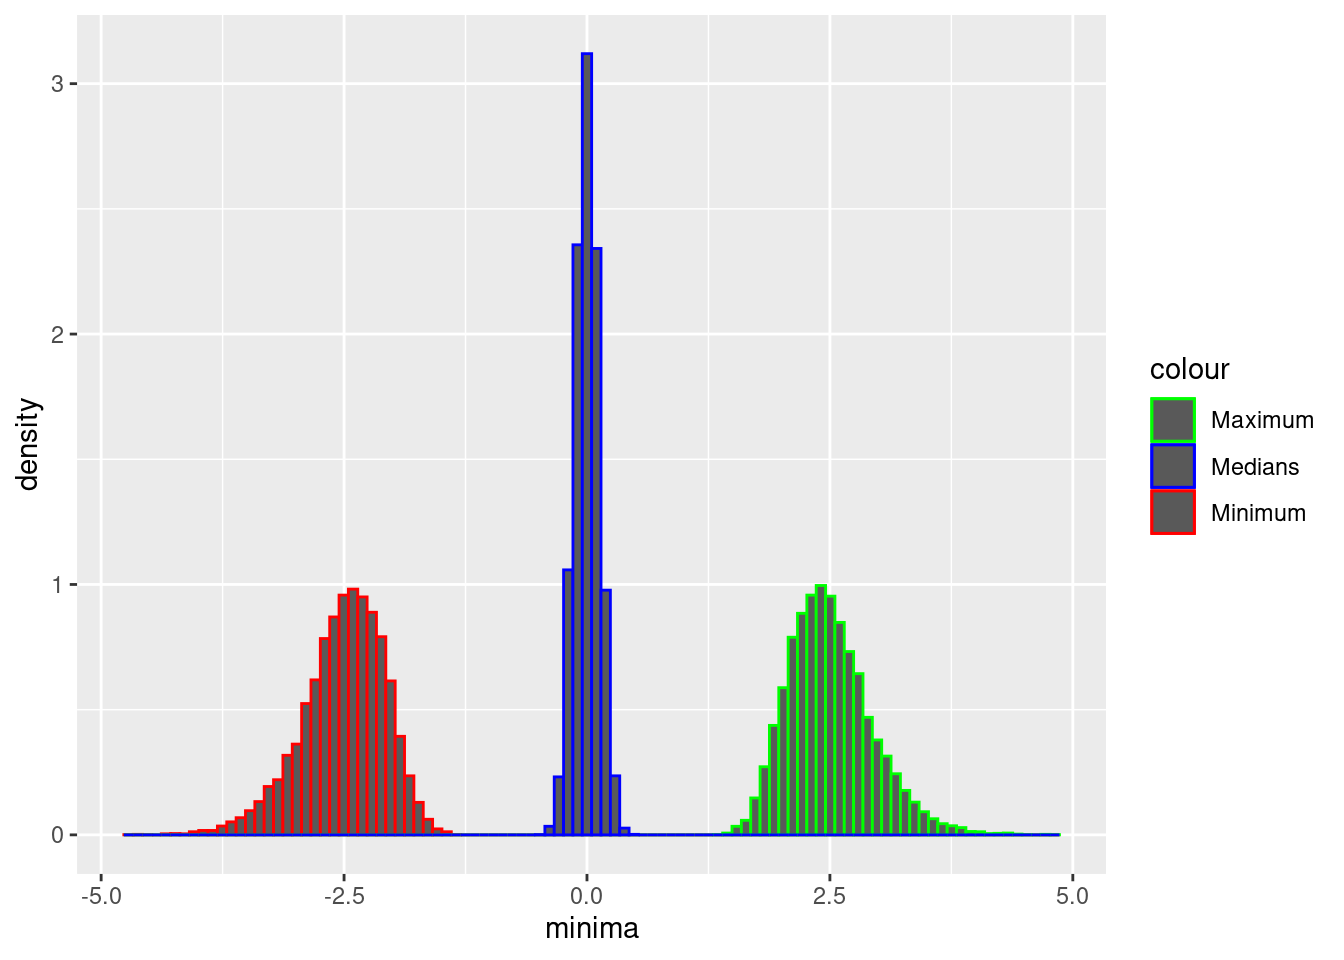
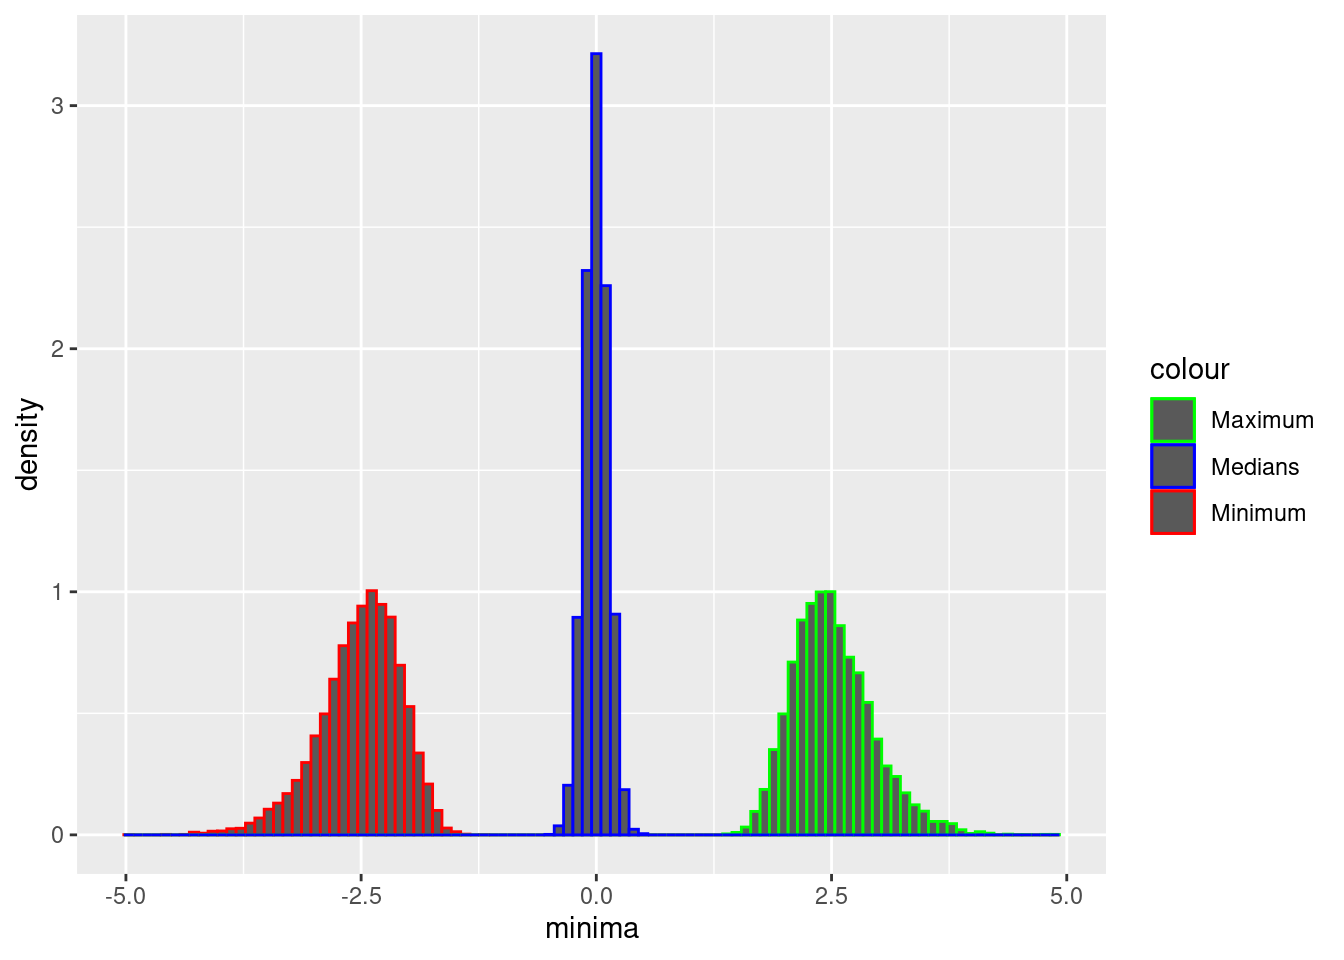
updating published version

diff --git a/docs/chapters/06-LinearAlgebra/linear_algebra_r.html b/docs/chapters/06-LinearAlgebra/linear_algebra_r.html
@@ -327,13 +327,13 @@ code span.wa { color: #60a0b0; font-weight: bold; font-style: italic; } /* Warni
 <span id="cb19-2"><a href="#cb19-2" aria-hidden="true" tabindex="-1"></a>y <span class="ot">&lt;-</span> <span class="fu">rnorm</span>(<span class="dv">4</span>)</span>
 <span id="cb19-3"><a href="#cb19-3" aria-hidden="true" tabindex="-1"></a><span class="fu">print</span>(x <span class="sc">+</span> y)</span></code><button title="Copy to Clipboard" class="code-copy-button"><i class="bi"></i></button></pre></div>
 <div class="cell-output cell-output-stdout">
-<pre><code>[1] -0.1574429  0.5853545  1.5430566  1.8220072</code></pre>
+<pre><code>[1]  0.2010285 -1.1237127 -1.1015789 -2.3177915</code></pre>
 </div>
 <div class="sourceCode cell-code" id="cb21"><pre class="sourceCode r code-with-copy"><code class="sourceCode r"><span id="cb21-1"><a href="#cb21-1" aria-hidden="true" tabindex="-1"></a><span class="co"># note that in R this makes sense</span></span>
 <span id="cb21-2"><a href="#cb21-2" aria-hidden="true" tabindex="-1"></a>u <span class="ot">&lt;-</span> <span class="fu">rnorm</span>(<span class="dv">2</span>)</span>
 <span id="cb21-3"><a href="#cb21-3" aria-hidden="true" tabindex="-1"></a><span class="fu">print</span>(x <span class="sc">+</span> u)</span></code><button title="Copy to Clipboard" class="code-copy-button"><i class="bi"></i></button></pre></div>
 <div class="cell-output cell-output-stdout">
-<pre><code>[1] -0.1725440 -1.6090980  0.9710686  1.3297334</code></pre>
+<pre><code>[1] -0.1064962 -1.2286674 -1.3623923 -2.8045689</code></pre>
 </div>
 </div>
 </section>
@@ -344,39 +344,39 @@ code span.wa { color: #60a0b0; font-weight: bold; font-style: italic; } /* Warni
 <span id="cb23-2"><a href="#cb23-2" aria-hidden="true" tabindex="-1"></a>v <span class="ot">=</span> <span class="fu">matrix</span>(<span class="fu">rnorm</span>(<span class="dv">20</span>), <span class="at">ncol =</span> <span class="dv">4</span>)</span>
 <span id="cb23-3"><a href="#cb23-3" aria-hidden="true" tabindex="-1"></a><span class="fu">print</span>(u <span class="sc">+</span> v)</span></code><button title="Copy to Clipboard" class="code-copy-button"><i class="bi"></i></button></pre></div>
 <div class="cell-output cell-output-stdout">
-<pre><code>            [,1]        [,2]       [,3]       [,4]
-[1,] 0.005901482  0.84508211 -1.4101435 -2.4777625
-[2,] 0.965643263  0.27345317  0.8652039 -0.7376397
-[3,] 1.131368788  1.55534278  0.7634983  0.7579660
-[4,] 2.101873832 -0.16303178 -1.3852967  0.9330677
-[5,] 1.000386045 -0.08485532 -0.5855597  0.7864797</code></pre>
+<pre><code>            [,1]       [,2]        [,3]       [,4]
+[1,] -0.08781738  2.6819573 -2.63831707  3.3471222
+[2,] -1.13599136  0.3329791 -1.24716448  2.9239088
+[3,]  0.93240611 -2.3386088 -0.80372049  1.2132588
+[4,]  0.95365295  2.2073135  0.30373833 -0.2885490
+[5,]  1.54915123 -0.2143616  0.06027279  0.6395133</code></pre>
 </div>
 <div class="sourceCode cell-code" id="cb25"><pre class="sourceCode r code-with-copy"><code class="sourceCode r"><span id="cb25-1"><a href="#cb25-1" aria-hidden="true" tabindex="-1"></a><span class="fu">print</span>(u)</span></code><button title="Copy to Clipboard" class="code-copy-button"><i class="bi"></i></button></pre></div>
 <div class="cell-output cell-output-stdout">
-<pre><code>           [,1]       [,2]       [,3]         [,4]
-[1,] -0.1710476  1.8939720 -0.3360687 -1.945614235
-[2,]  0.2962955  0.2241434 -0.6711872 -1.062910113
-[3,]  0.6343045  0.6224680  1.3438681  0.001298094
-[4,]  0.8958881  0.7648187  0.3601680  0.175845887
-[5,]  0.5290828 -0.4192935 -1.5211755  0.006996537</code></pre>
+<pre><code>           [,1]       [,2]        [,3]       [,4]
+[1,] -0.9193640  2.4385226 -1.85901636 -0.4301372
+[2,] -0.8306836 -0.7379083 -2.07993606  0.1207315
+[3,]  0.5684176 -0.2243259 -0.99898721 -0.0421543
+[4,]  1.3154388  1.0222996  0.04858308 -0.5514530
+[5,]  0.4438915 -0.7708496 -0.06492562  0.1556753</code></pre>
 </div>
 <div class="sourceCode cell-code" id="cb27"><pre class="sourceCode r code-with-copy"><code class="sourceCode r"><span id="cb27-1"><a href="#cb27-1" aria-hidden="true" tabindex="-1"></a><span class="fu">print</span>(<span class="dv">1</span> <span class="sc">/</span> u)</span></code><button title="Copy to Clipboard" class="code-copy-button"><i class="bi"></i></button></pre></div>
 <div class="cell-output cell-output-stdout">
-<pre><code>          [,1]       [,2]       [,3]        [,4]
-[1,] -5.846326  0.5279909 -2.9755821  -0.5139765
-[2,]  3.375010  4.4614299 -1.4898972  -0.9408133
-[3,]  1.576530  1.6065083  0.7441206 770.3602603
-[4,]  1.116211  1.3074994  2.7764823   5.6867978
-[5,]  1.890063 -2.3849643 -0.6573864 142.9278575</code></pre>
+<pre><code>           [,1]       [,2]        [,3]       [,4]
+[1,] -1.0877085  0.4100844  -0.5379189  -2.324840
+[2,] -1.2038278 -1.3551819  -0.4807840   8.282844
+[3,]  1.7592699 -4.4578003  -1.0010138 -23.722373
+[4,]  0.7602026  0.9781868  20.5832958  -1.813391
+[5,]  2.2528028 -1.2972699 -15.4022404   6.423626</code></pre>
 </div>
 <div class="sourceCode cell-code" id="cb29"><pre class="sourceCode r code-with-copy"><code class="sourceCode r"><span id="cb29-1"><a href="#cb29-1" aria-hidden="true" tabindex="-1"></a><span class="fu">print</span>(<span class="fu">log</span>(<span class="fu">abs</span>(u)))</span></code><button title="Copy to Clipboard" class="code-copy-button"><i class="bi"></i></button></pre></div>
 <div class="cell-output cell-output-stdout">
-<pre><code>           [,1]       [,2]       [,3]        [,4]
-[1,] -1.7658134  0.6386762 -1.0904397  0.66557773
-[2,] -1.2163982 -1.4954693 -0.3987071  0.06101054
-[3,] -0.4552261 -0.4740631  0.2955521 -6.64685828
-[4,] -0.1099397 -0.2681164 -1.0211848 -1.73814731
-[5,] -0.6366103 -0.8691842  0.4194834 -4.96234001</code></pre>
+<pre><code>            [,1]        [,2]         [,3]       [,4]
+[1,] -0.08407321  0.89139236  0.620047508 -0.8436511
+[2,] -0.18550635 -0.30393566  0.732337154 -2.1141863
+[3,] -0.56489891 -1.49465543 -0.001013306 -3.1664186
+[4,]  0.27417027  0.02205464 -3.024479862 -0.5951987
+[5,] -0.81217515 -0.26026196 -2.734512977 -1.8599828</code></pre>
 </div>
 </div>
 </section>
@@ -386,19 +386,19 @@ code span.wa { color: #60a0b0; font-weight: bold; font-style: italic; } /* Warni
 <div class="sourceCode cell-code" id="cb31"><pre class="sourceCode r code-with-copy"><code class="sourceCode r"><span id="cb31-1"><a href="#cb31-1" aria-hidden="true" tabindex="-1"></a>u <span class="ot">=</span> <span class="fu">matrix</span>(<span class="fu">rnorm</span>(<span class="dv">20</span>), <span class="at">ncol =</span> <span class="dv">4</span>)</span>
 <span id="cb31-2"><a href="#cb31-2" aria-hidden="true" tabindex="-1"></a><span class="fu">print</span>(<span class="fu">colMeans</span>(u))</span></code><button title="Copy to Clipboard" class="code-copy-button"><i class="bi"></i></button></pre></div>
 <div class="cell-output cell-output-stdout">
-<pre><code>[1]  0.22400528  0.18374196 -0.04202271  0.46980469</code></pre>
+<pre><code>[1]  0.01038959  0.54599783 -0.07177792 -0.62958924</code></pre>
 </div>
 <div class="sourceCode cell-code" id="cb33"><pre class="sourceCode r code-with-copy"><code class="sourceCode r"><span id="cb33-1"><a href="#cb33-1" aria-hidden="true" tabindex="-1"></a><span class="fu">print</span>(<span class="fu">rowMeans</span>(u))</span></code><button title="Copy to Clipboard" class="code-copy-button"><i class="bi"></i></button></pre></div>
 <div class="cell-output cell-output-stdout">
-<pre><code>[1]  0.11882072 -0.06268912  0.25887130  0.39299352  0.33641511</code></pre>
+<pre><code>[1] -0.2020614 -0.1766882 -0.2107542  0.2627120  0.1455671</code></pre>
 </div>
 <div class="sourceCode cell-code" id="cb35"><pre class="sourceCode r code-with-copy"><code class="sourceCode r"><span id="cb35-1"><a href="#cb35-1" aria-hidden="true" tabindex="-1"></a><span class="fu">apply</span>(u, <span class="dv">1</span>, <span class="cf">function</span>(x) <span class="fu">mean</span>(x))</span></code><button title="Copy to Clipboard" class="code-copy-button"><i class="bi"></i></button></pre></div>
 <div class="cell-output cell-output-stdout">
-<pre><code>[1]  0.11882072 -0.06268912  0.25887130  0.39299352  0.33641511</code></pre>
+<pre><code>[1] -0.2020614 -0.1766882 -0.2107542  0.2627120  0.1455671</code></pre>
 </div>
 <div class="sourceCode cell-code" id="cb37"><pre class="sourceCode r code-with-copy"><code class="sourceCode r"><span id="cb37-1"><a href="#cb37-1" aria-hidden="true" tabindex="-1"></a><span class="fu">apply</span>(u, <span class="dv">2</span>, <span class="cf">function</span>(x) <span class="fu">var</span>(x))</span></code><button title="Copy to Clipboard" class="code-copy-button"><i class="bi"></i></button></pre></div>
 <div class="cell-output cell-output-stdout">
-<pre><code>[1] 0.4434839 0.4207491 0.1494940 0.1496010</code></pre>
+<pre><code>[1] 0.6833941 0.5946856 0.9329311 1.1814161</code></pre>
 </div>
 </div>
 </section>
@@ -409,12 +409,12 @@ code span.wa { color: #60a0b0; font-weight: bold; font-style: italic; } /* Warni
 <span id="cb39-2"><a href="#cb39-2" aria-hidden="true" tabindex="-1"></a>y <span class="ot">=</span> <span class="fu">matrix</span>(<span class="fu">rnorm</span>(<span class="dv">15</span>), <span class="at">ncol =</span> <span class="dv">3</span>)</span>
 <span id="cb39-3"><a href="#cb39-3" aria-hidden="true" tabindex="-1"></a><span class="fu">print</span>(y <span class="sc">%*%</span> x)</span></code><button title="Copy to Clipboard" class="code-copy-button"><i class="bi"></i></button></pre></div>
 <div class="cell-output cell-output-stdout">
-<pre><code>           [,1]       [,2]       [,3]       [,4]
-[1,] -1.3708110 -0.5902378 -1.8645067  0.6021947
-[2,]  0.5997915 -1.6941281 -0.3086868  1.2321233
-[3,]  0.4862716 -2.9800050 -0.7489015  1.8873147
-[4,]  1.8557395  1.1973868  2.8017475 -1.1590703
-[5,] -0.9278985  1.6727771  1.7467705 -2.6361354</code></pre>
+<pre><code>           [,1]       [,2]       [,3]         [,4]
+[1,] -0.3477276 -1.8582227 -0.1861860  0.006459785
+[2,]  1.7820706  3.4693502  0.7818338  2.757770342
+[3,]  0.1724814  4.1083356  0.5580947 -2.403942341
+[4,]  0.9029434  2.6311168  0.6082010  0.529665405
+[5,] -0.7671731  0.1474617 -0.9454621 -0.314958525</code></pre>
 </div>
 </div>
 </section>
@@ -424,11 +424,11 @@ code span.wa { color: #60a0b0; font-weight: bold; font-style: italic; } /* Warni
 <div class="sourceCode cell-code" id="cb41"><pre class="sourceCode r code-with-copy"><code class="sourceCode r"><span id="cb41-1"><a href="#cb41-1" aria-hidden="true" tabindex="-1"></a>x <span class="ot">=</span> <span class="fu">matrix</span>(<span class="fu">rnorm</span>(<span class="dv">12</span>), <span class="at">nrow =</span> <span class="dv">3</span>)</span>
 <span id="cb41-2"><a href="#cb41-2" aria-hidden="true" tabindex="-1"></a><span class="fu">print</span>(<span class="fu">t</span>(x))</span></code><button title="Copy to Clipboard" class="code-copy-button"><i class="bi"></i></button></pre></div>
 <div class="cell-output cell-output-stdout">
-<pre><code>           [,1]        [,2]        [,3]
-[1,] -0.8848011 -0.01894181  0.68179544
-[2,]  1.0274104 -1.27399950  2.67515435
-[3,]  0.4022628 -1.51754377 -0.26869365
-[4,]  0.1643402  0.64675182  0.03605377</code></pre>
+<pre><code>           [,1]       [,2]       [,3]
+[1,] 1.48239270  1.8127275  0.9430318
+[2,] 0.85914357 -2.1078207  1.2858244
+[3,] 0.73499077  1.1240365 -0.2796883
+[4,] 0.06044379 -0.9321805  1.1626911</code></pre>
 </div>
 <div class="sourceCode cell-code" id="cb43"><pre class="sourceCode r code-with-copy"><code class="sourceCode r"><span id="cb43-1"><a href="#cb43-1" aria-hidden="true" tabindex="-1"></a><span class="fu">print</span>(<span class="fu">nrow</span>(<span class="fu">t</span>(x)))</span></code><button title="Copy to Clipboard" class="code-copy-button"><i class="bi"></i></button></pre></div>
 <div class="cell-output cell-output-stdout">

diff --git a/docs/chapters/06-LinearAlgebra/linear_algebra.html b/docs/chapters/06-LinearAlgebra/linear_algebra.html
@@ -429,7 +429,7 @@ code span.wa { color: #60a0b0; font-weight: bold; font-style: italic; } /* Warni
 </code></pre>
 </div>
 <div class="cell-output cell-output-display" data-execution_count="6">
-<pre><code>&lt;matplotlib.image.AxesImage at 0x7fdd23a55f40&gt;</code></pre>
+<pre><code>&lt;matplotlib.image.AxesImage at 0x7f6b36106ca0&gt;</code></pre>
 </div>
 <div class="cell-output cell-output-display">
 <p><img src="linear_algebra_files/figure-html/cell-7-output-3.png" width="415" height="411"></p>
@@ -521,8 +521,8 @@ b_1v_1+...+b_kv_k=0
 <span id="cb10-4"><a href="#cb10-4" aria-hidden="true" tabindex="-1"></a>result <span class="op">=</span> <span class="bu">sum</span>(prods)  <span class="co"># sum of products</span></span>
 <span id="cb10-5"><a href="#cb10-5" aria-hidden="true" tabindex="-1"></a><span class="bu">print</span>(result)</span></code><button title="Copy to Clipboard" class="code-copy-button"><i class="bi"></i></button></pre></div>
 <div class="cell-output cell-output-stdout">
-<pre><code>[-1.70027486 -1.78235996 -1.82984082 -1.60582196 -1.74006303 -2.95608935
- -1.48846444 -1.63746178]</code></pre>
+<pre><code>[ 0.20787137 -1.70796585 -0.92356413 -0.39774789  0.31960287 -1.77183004
+  0.19309562  0.14900575]</code></pre>
 </div>
 </div>
 </section>
@@ -880,7 +880,7 @@ Compare -M[:,0]+M[:,2] with M@v
 <div class="cell" data-execution_count="14">
 <div class="sourceCode cell-code" id="cb25"><pre class="sourceCode python code-with-copy"><code class="sourceCode python"><span id="cb25-1"><a href="#cb25-1" aria-hidden="true" tabindex="-1"></a>plt.scatter(x<span class="op">=</span>data0[:, <span class="dv">2</span>], y<span class="op">=</span>data0[:, <span class="dv">3</span>])</span></code><button title="Copy to Clipboard" class="code-copy-button"><i class="bi"></i></button></pre></div>
 <div class="cell-output cell-output-display" data-execution_count="14">
-<pre><code>&lt;matplotlib.collections.PathCollection at 0x7fdd1cfdabe0&gt;</code></pre>
+<pre><code>&lt;matplotlib.collections.PathCollection at 0x7f6b1f50fb20&gt;</code></pre>
 </div>
 <div class="cell-output cell-output-display">
 <p><img src="linear_algebra_files/figure-html/cell-15-output-2.png" width="590" height="411"></p>

diff --git a/docs/chapters/06-LinearAlgebra/linear_algebra_python.html b/docs/chapters/06-LinearAlgebra/linear_algebra_python.html
@@ -296,7 +296,7 @@ Reshaped array to column vector:
 <span id="cb6-7"><a href="#cb6-7" aria-hidden="true" tabindex="-1"></a><span class="cf">except</span>:</span>
 <span id="cb6-8"><a href="#cb6-8" aria-hidden="true" tabindex="-1"></a>    <span class="bu">print</span>(<span class="st">"Cant Mix These"</span>)</span></code><button title="Copy to Clipboard" class="code-copy-button"><i class="bi"></i></button></pre></div>
 <div class="cell-output cell-output-stdout">
-<pre><code>[1.51504614 0.59347187 2.7702155  1.87101643]
+<pre><code>[-1.52231502  0.76850828  1.28519479  0.42665221]
 Cant Mix These</code></pre>
 </div>
 </div>
@@ -353,16 +353,16 @@ x-z=[[-2 -1]
 <span id="cb12-4"><a href="#cb12-4" aria-hidden="true" tabindex="-1"></a><span class="bu">print</span>(y)</span>
 <span id="cb12-5"><a href="#cb12-5" aria-hidden="true" tabindex="-1"></a><span class="bu">print</span>(x <span class="op">@</span> y)</span></code><button title="Copy to Clipboard" class="code-copy-button"><i class="bi"></i></button></pre></div>
 <div class="cell-output cell-output-stdout">
-<pre><code>[[-1.12283134 -1.30132544  1.02405484 -0.60658435]
- [ 1.11183995  2.01429685 -0.49124632  1.72633537]
- [ 1.13750603 -0.66032584 -1.51912569 -1.69622988]]
-[[0.20534218]
- [2.15010975]
- [0.66893411]
- [0.97644094]]
-[[-2.93582573]
- [ 5.91632003]
- [-3.85865834]]</code></pre>
+<pre><code>[[-0.59248299  1.03291625  0.8865049  -0.75661269]
+ [-1.3808384  -0.74085953 -1.76893118 -0.77746364]
+ [ 0.57655411  0.62412979  0.78913937  0.17423084]]
+[[-0.00762942]
+ [-0.54056644]
+ [-1.14141436]
+ [ 1.23205466]]
+[[-2.49789718]
+ [ 1.47222456]
+ [-1.02785549]]</code></pre>
 </div>
 </div>
 </section>

diff --git a/docs/chapters/02-JupyterBasics/jupyter-walkthrough.html b/docs/chapters/02-JupyterBasics/jupyter-walkthrough.html
@@ -506,7 +506,7 @@ Molly
 <div class="cell" data-execution_count="31">
 <div class="sourceCode cell-code" id="cb57"><pre class="sourceCode python code-with-copy"><code class="sourceCode python"><span id="cb57-1"><a href="#cb57-1" aria-hidden="true" tabindex="-1"></a><span class="bu">print</span>(np.random.randint(<span class="dv">0</span>, <span class="dv">10</span>))</span></code><button title="Copy to Clipboard" class="code-copy-button"><i class="bi"></i></button></pre></div>
 <div class="cell-output cell-output-stdout">
-<pre><code>2</code></pre>
+<pre><code>4</code></pre>
 </div>
 </div>
 <div class="cell" data-execution_count="32">
@@ -521,7 +521,7 @@ Molly
 <div class="cell" data-execution_count="34">
 <div class="sourceCode cell-code" id="cb62"><pre class="sourceCode python code-with-copy"><code class="sourceCode python"><span id="cb62-1"><a href="#cb62-1" aria-hidden="true" tabindex="-1"></a>randint(<span class="dv">1</span>, <span class="dv">10</span>)</span></code><button title="Copy to Clipboard" class="code-copy-button"><i class="bi"></i></button></pre></div>
 <div class="cell-output cell-output-display" data-execution_count="34">
-<pre><code>1</code></pre>
+<pre><code>6</code></pre>
 </div>
 </div>
 </section>

diff --git a/docs/chapters/05-WorkingWithData/pandas_penguins.html b/docs/chapters/05-WorkingWithData/pandas_penguins.html
@@ -1357,7 +1357,7 @@ Categories (2, object): ['FEMALE', 'MALE']</code></pre>
 <div class="sourceCode cell-code" id="cb45"><pre class="sourceCode python code-with-copy"><code class="sourceCode python"><span id="cb45-1"><a href="#cb45-1" aria-hidden="true" tabindex="-1"></a>penguins_by_species <span class="op">=</span> penguins.groupby(<span class="st">'Species'</span>)</span>
 <span id="cb45-2"><a href="#cb45-2" aria-hidden="true" tabindex="-1"></a>penguins_by_species</span></code><button title="Copy to Clipboard" class="code-copy-button"><i class="bi"></i></button></pre></div>
 <div class="cell-output cell-output-display" data-execution_count="28">
-<pre><code>&lt;pandas.core.groupby.generic.DataFrameGroupBy object at 0x7fb1b5768580&gt;</code></pre>
+<pre><code>&lt;pandas.core.groupby.generic.DataFrameGroupBy object at 0x7f2ff8305d90&gt;</code></pre>
 </div>
 </div>
 </section>

diff --git a/docs/chapters/04-StatBasics/stat-basics.html b/docs/chapters/04-StatBasics/stat-basics.html
@@ -790,7 +790,7 @@ p(1)+(1-p)(0)=p.
 <div class="sourceCode cell-code" id="cb22"><pre class="sourceCode r code-with-copy"><code class="sourceCode r"><span id="cb22-1"><a href="#cb22-1" aria-hidden="true" tabindex="-1"></a>simulated <span class="ot">&lt;-</span> <span class="fu">rbinom</span>(<span class="dv">10000</span>, <span class="dv">4600</span>, .<span class="dv">224</span>)</span>
 <span id="cb22-2"><a href="#cb22-2" aria-hidden="true" tabindex="-1"></a><span class="fu">sum</span>(simulated <span class="sc">&gt;=</span> <span class="dv">1133</span>)</span></code><button title="Copy to Clipboard" class="code-copy-button"><i class="bi"></i></button></pre></div>
 <div class="cell-output cell-output-stdout">
-<pre><code>[1] 0</code></pre>
+<pre><code>[1] 3</code></pre>
 </div>
 </div>
 <!--
